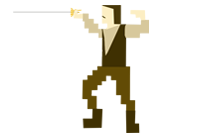
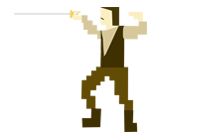
thrust images

Changed region(s): [[0.0558, 0.0286, 0.6977, 0.9714], [0.3628, 0.5714, 0.3907, 0.7143]]

diff --git a/playerSkinsList.py b/playerSkinsList.py
@@ -35,12 +35,18 @@ def getSkin(character_type):
             "duck_r": "Resources/Images/FillerSpriteR.png",
             "jump_l": "Resources/Images/FillerSpriteL.png",
             "jump_r": "Resources/Images/FillerSpriteR.png",
-            "thrust_high_l": "Resources/Images/FillerSpriteL.png",
-            "thrust_high_r": "Resources/Images/FillerSpriteR.png",
-            "thrust_med_l": "Resources/Images/FillerSpriteL.png",
-            "thrust_med_r": "Resources/Images/FillerSpriteR.png",
-            "thrust_low_l": "Resources/Images/FillerSpriteL.png",
-            "thrust_low_r": "Resources/Images/FillerSpriteR.png"
+            "thrust_high_l": "Resources/Images/MontoyaHighThrustL.png",
+            "thrust_high_r": "Resources/Images/MontoyaHighThrustR.png",
+            "thrust_med_l": "Resources/Images/MontoyaMedThrustL.png",
+            "thrust_med_r": "Resources/Images/MontoyaMedThrustR.png",
+            "thrust_low_l": "Resources/Images/MontoyaLowThrustL.png",
+            "thrust_low_r": "Resources/Images/MontoyaLowThrustR.png",
+            "dead_l_1": "Resources/Images/FillerSpriteL.png",
+            "dead_r_1": "Resources/Images/FillerSpriteL.png",
+            "dead_l_2": "Resources/Images/FillerSpriteL.png",
+            "dead_r_2": "Resources/Images/FillerSpriteL.png",
+            "dead_l_3": "Resources/Images/FillerSpriteL.png",
+            "dead_r_3": "Resources/Images/FillerSpriteL.png"
         }
     else:
         # set a default skin
@@ -57,11 +63,17 @@ def getSkin(character_type):
             "duck_r": "Resources/Images/FillerSpriteR.png",
             "jump_l": "Resources/Images/FillerSpriteL.png",
             "jump_r": "Resources/Images/FillerSpriteR.png",
-            "thrust_high_l": "Resources/Images/FillerSpriteL.png",
-            "thrust_high_r": "Resources/Images/FillerSpriteR.png",
-            "thrust_med_l": "Resources/Images/FillerSpriteL.png",
-            "thrust_med_r": "Resources/Images/FillerSpriteR.png",
-            "thrust_low_l": "Resources/Images/FillerSpriteL.png",
-            "thrust_low_r": "Resources/Images/FillerSpriteR.png"
+            "thrust_high_l": "Resources/Images/MontoyaHighThrustL.png",
+            "thrust_high_r": "Resources/Images/MontoyaHighThrustR.png",
+            "thrust_med_l": "Resources/Images/MontoyaMedThrustL.png",
+            "thrust_med_r": "Resources/Images/MontoyaMedThrustR.png",
+            "thrust_low_l": "Resources/Images/MontoyaLowThrustL.png",
+            "thrust_low_r": "Resources/Images/MontoyaLowThrustR.png",
+            "dead_l_1": "Resources/Images/FillerSpriteL.png",
+            "dead_r_1": "Resources/Images/FillerSpriteL.png",
+            "dead_l_2": "Resources/Images/FillerSpriteL.png",
+            "dead_r_2": "Resources/Images/FillerSpriteL.png",
+            "dead_l_3": "Resources/Images/FillerSpriteL.png",
+            "dead_r_3": "Resources/Images/FillerSpriteL.png"
         }
     return images_dictionary
